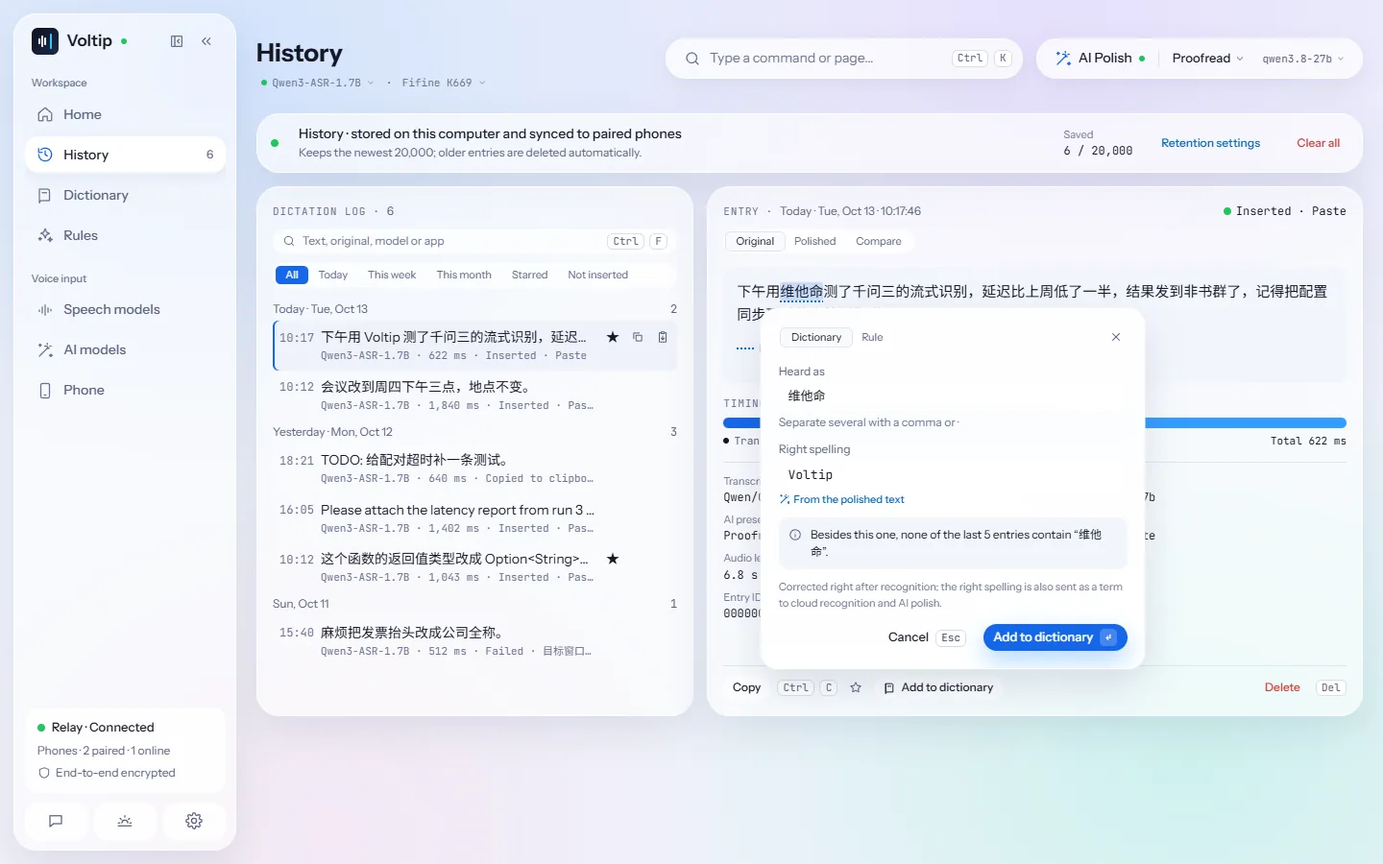
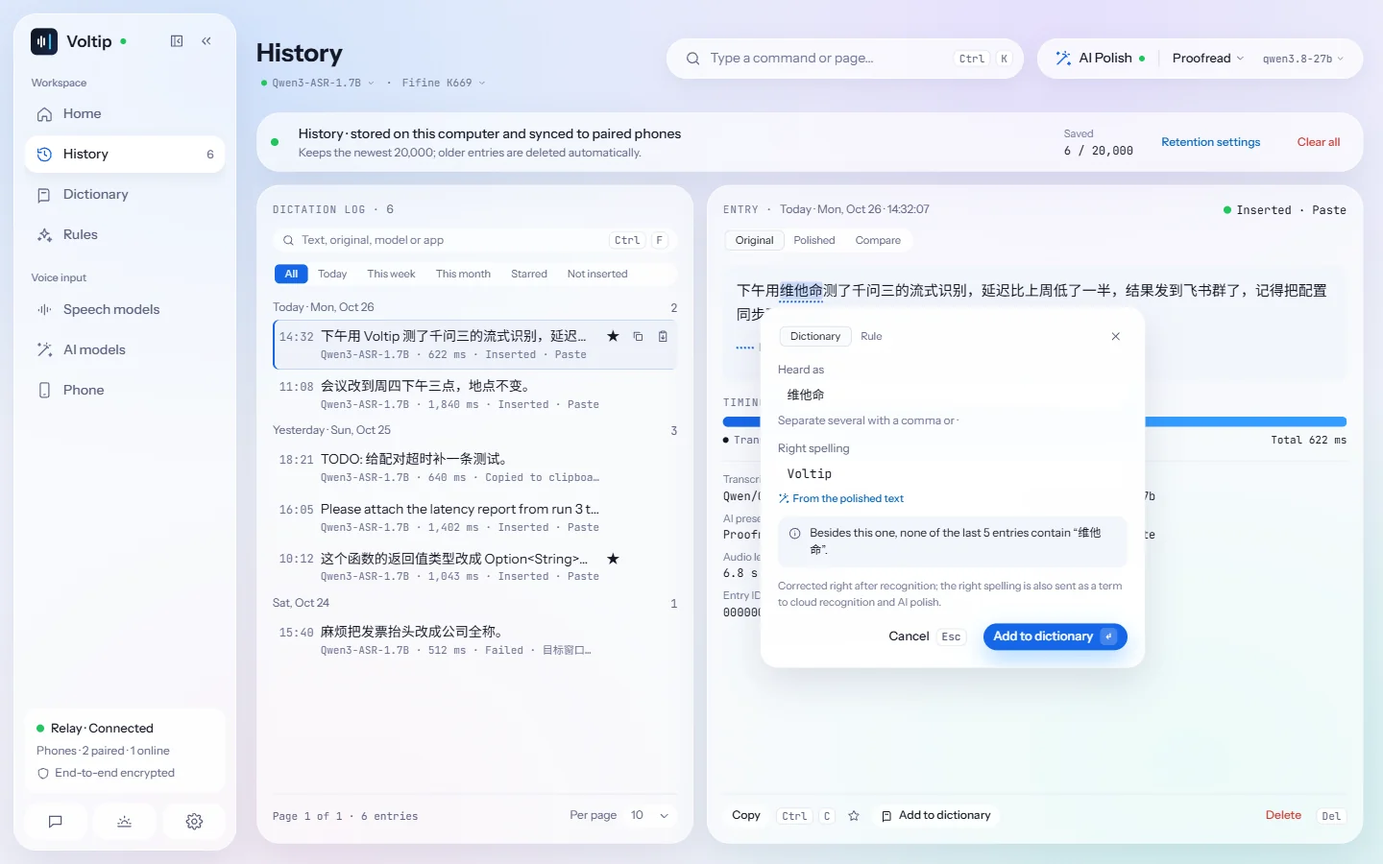
docs(voltip): sync from voltip@98e12c8
Source: https://github.com/sunerpy/voltip/commit/98e12c89e545e44171897ab1d7d09b297e55572b

diff --git a/voltip/src/zh/dev/frontend.md b/voltip/src/zh/dev/frontend.md
@@ -143,7 +143,7 @@ type UiEvent = { type: "state" } & UiState | { type: "identity" } & DeviceIdenti
 - **设置是模态对话框**：`/settings/:section` 仍是路由（深链、测试），但渲染为 `SettingsDialog`（`min(960px, 100vw-48px) × min(660px, 100vh-48px)`，左 200 px 分组导航 + 右侧流式内容），压在路由 `background`（上一个非设置页面，默认首页）之上；Esc / 遮罩 / 关闭按钮回到 background；标题栏读数保持 background 页面的。
 - **设置 › 听写**（2026-09-29）：插入方式（粘贴到光标处 / 仅复制到剪贴板，`settings_set_engines { inject }`）只在这里设置；首页听写卡的提示随之写「插入到当前光标处」或「复制到剪贴板」。
 - **切换菜单**（`apps/desktop/src/features/switchers/`，2026-09-30 用户要求，2026-10-01 确认方案 A：预设与模型是两个下拉）：标题栏与首页共用三个菜单，行与选中后的设置由纯函数 `switchers.ts` 生成（行 id 由 `choiceId` / `parseChoice` 往返）。`SpeechModelMenu`：「内置服务」组在前，然后是每个已设置、能运行的云端服务商（未设置密钥或缺少地址的服务商不列出，2026-10-01 用户决定），各列其模型；「本地模型」组列出已安装的识别模型（档位名 + 产品名，`modelFamilyName`）；末行「管理语音模型…」进 `/speech`。`PolishModelMenu`：按提供 LLM 的可用服务商分组列模型，末行「管理 AI 模型…」进 `/ai`。选中写 `settings_set_engines`（`engineSettingsFor`：内置服务只切换服务商；其他服务商经 `applyProviderDraft` 写入模型并保留已保存的地址；本地模型经 `activateLocalModel`）。`MicrophoneMenu`：挂载时和每次打开时重读 `audio_devices`（刚插上的 USB 麦克风也在），「系统默认（{名称}）」在前，再列各设备短名；所选设备未连接时仍列出，带「未连接」、选中且不可选；选中写 `settings_set_microphone`；标题栏的菜单另有「录音来源」组（麦克风 / 电脑声音 / 混合，电脑声音不可用的平台不出现），末行「录音来源设置…」打开 设置 › 录音来源。首页：识别与润色卡的模型名（`home-engine-model`）、润色模型（`home-refine-model`）与麦克风设备名（`home-mic-device`；只录电脑声音时是纯文字）是这三个菜单的按钮；页头的两个菜单在首页以外的页面。
-- **引擎页是服务商卡片**：「语音识别」「文本润色」「识别设置」三组。前两组把服务商排成卡片网格（`packages/ui` `ProviderCards`，2026-10-10 用户在 Penpot「Voltip 服务商设置」选定方案 1：网格 + 右侧抽屉；按目录顺序，列宽 `auto-fill` 最小 280 px）：每张卡片写服务商名、请求发往的主机（内置服务、本机、未填地址的自定义接口写一句说明，内置服务的主机从不显示，`providerTagline`）、状态徽标（在用的写「使用中」，有问题的写原因，其余写「就绪」，`providerBadges`）和所用模型（等宽字体，过长截断），右下角是「设为当前」（只切换，写 `settings_set_engines`），在用的那张写「当前使用」并带浅强调色底与浅色图标块（用户 2026-10-10：实心蓝图标块不好看）。点卡片从右侧打开抽屉（`Drawer`：遮罩、Esc / 关闭按钮 / 点遮罩关闭、Tab 不出抽屉、关闭后焦点回到卡片；宽 480 px，本机 720 px，都不超过窗口宽减 24 px）：标题行是图标块（厂商显示自己的标志，`PROVIDER_MARKS`；内置服务、本机、自定义接口用应用图标；卡片上同样）、服务商名、状态徽标和说明，下面按「语音识别 / AI 润色」「连接」两组每行一个字段——选模型（当前模型与预设 → 「其他模型…」（任意 id）→ 有服务商列表时「服务商提供（N）」一组，`modelOptions`，N 与测试连接的数量相同，新列表只追加在末尾；列表来自已保存的密钥，`provider_models_refresh` 在打开抽屉、打开下拉框和保存之后刷新，或来自这次在表单里的测试连接；`Select wrap` 让长模型 ID 在字段内换行，不再撑宽字段盖住旁边的接口地址，2026-10-10 用户报告）、接口地址、密钥（`password` 字段，永远空着打开，只经 `provider_key_set` 写入；已保存时只显示「已保存」；显示 / 隐藏按钮在字段内）、密钥状态与「获取密钥」「删除密钥」（阿里云百炼另有「查看额度」与一行额度说明）、「测试连接」（`provider_probe`，未测时写「尚未测试」）；底部是「恢复默认」「保存」和「设为当前」（先按「保存」的规则检查并写入草稿，再切换并关闭抽屉）；内置服务卡只写「内置服务的地址和密钥在构建时写进应用，这里不显示」。「本机」的抽屉里是真实的模型库（`LocalModels`，两列）：只列识别模型（`capabilities` 含 `offline`），按产品档位排序 均衡 → 高精度 → 轻量 → 轻量 · 中文（`offlineModelsByTier`，同档位保持核心顺序，`listitem` 带 `data-tier`），卡片标题在中文下用核心的 `name`、英文下按 id 查字典（`modelDisplayName`），描述同理（`modelDescription`），下载 / 取消 / 重试 / 删除 / 使用此模型全部是真实核心命令。第三节「实时预览」（`LivePreview`，docs/dictation.md §11）：开关写 `settings_set_engines { live_preview }`（整块下发），状态灯行读 `state.engines.live_preview_ready`（已就绪 / 模型未下载 / 已关闭，`data-state`），下方是流式模型 `zipformer-stream-zh-en` 的同款卡片——只有下载 / 取消 / 重试 / 删除，**没有**「使用此模型」（`modelAction` → `installed`：它不是识别模型，永不 `active`）。第四节「输出方式」（`OutputMode`，docs/dictation.md §12，2026-09-26）：三张 `OptionCard`（`role="listbox"`，`aria-label="输出方式"`）——整段输出 / 流式定稿 / 实时注入，选中写 `settings_set_engines { output_mode }`；状态灯行与「当前生效」徽标读 `state.engines.effective_output_mode`（`data-mode` = 所选，`data-effective` = 实际），流式模型未下载时两张流式卡带「模型未下载」徽标、所选流式卡下方出「流式模型未下载，当前按整段输出运行」（`output-mode-fallback`）；`output_mode = live_inject` 且润色开着时 LLM 润色卡内出「实时注入下不润色」（`refine-live-inject`）。第五节「静音裁剪」（`VadTrim`）：`Toggle` 写 `settings_set_engines { vad_trim }`，仅本机识别时可用，云端下禁用并注明「仅本地识别可用；云端识别不裁剪」（`data-state` = on / off / cloud）。「本机」抽屉最后是「运行设备」（`LocalCompute`，§10.6）：自动 / CPU / GPU（没有可用 GPU 时禁用 GPU）、多块 GPU 时选哪块、推理线程。服务商列表之后是「额度用完后改用其他模型」（`packages/ui` `FallbackSection`，docs/dictation.md §3.5，识别与润色各一份，手机同用）：开关与列表写 `settings_set_engines { asr_fallback | llm_fallback }`，每行的状态读 `state.engines.asr_fallback | llm_fallback`（`fallbackRows`：使用中 / 可用 / 额度已用完 · 何时再试 / 服务商问题 / 跳过），「重新检查」= `engines_quota_reset`；候补顶替时服务商区块标题为「当前：服务商 · 模型（候补）」，隐私说明在候补链运行时加上额度用完后会收到数据的服务商（两者是 `packages/ui` 的 `CurrentService` / `ServicePrivacy`，手机两页放在服务商卡片下方）；顶替实时模型的是整段识别模型时，「实时预览」为「暂不可用 · 候补模型不支持实时识别」（`data-state="paused"`），「输出方式」按整段输出生效，不显示「模型未下载」。
+- **引擎页是服务商卡片**：「语音识别」「文本润色」「识别设置」三组。前两组把服务商排成卡片网格（`packages/ui` `ProviderCards`，2026-10-10 用户在 Penpot「Voltip 服务商设置」选定方案 1：网格 + 右侧抽屉；按目录顺序，列宽 `auto-fill` 最小 280 px）：每张卡片写服务商名、请求发往的主机（内置服务、本机、未填地址的自定义接口写一句说明，内置服务的主机从不显示，`providerTagline`）、状态徽标（在用的写「使用中」，有问题的写原因，其余写「就绪」，`providerBadges`）和所用模型（等宽字体，过长截断），右下角是「设为当前」（只切换，写 `settings_set_engines`），在用的那张写「当前使用」并带浅强调色底与浅色图标块（用户 2026-10-10：实心蓝图标块不好看）。点卡片从右侧打开抽屉（`Drawer`：遮罩、Esc / 关闭按钮 / 点遮罩关闭、Tab 不出抽屉、关闭后焦点回到卡片；宽 480 px，本机 720 px，都不超过窗口宽减 24 px）：标题行是图标块（厂商显示自己的标志，`PROVIDER_MARKS`；内置服务、本机、自定义接口用应用图标；卡片上同样）、服务商名、状态徽标和说明，下面按「语音识别 / AI 润色」「连接」两组每行一个字段——选模型（当前模型与预设 → 「其他模型…」（任意 id）→ 有服务商列表时「服务商提供（N）」一组，`modelOptions`，N 与测试连接的数量相同，新列表只追加在末尾；列表来自已保存的密钥，`provider_models_refresh` 在打开抽屉、打开下拉框和保存之后刷新，或来自这次在表单里的测试连接；`Select wrap` 让长模型 ID 在字段内换行，不再撑宽字段盖住旁边的接口地址，2026-10-10 用户报告）、接口地址、密钥（`password` 字段，永远空着打开，只经 `provider_key_set` 写入；已保存时只显示「已保存」；显示 / 隐藏按钮在字段内）、密钥状态与「获取密钥」「删除密钥」（阿里云百炼另有「查看额度」与一行额度说明）、「测试连接」（`provider_probe`，未测时写「尚未测试」）；底部是「恢复默认」「保存」和「设为当前」（先按「保存」的规则检查并写入草稿，再切换并关闭抽屉）；内置服务卡只写「内置服务的地址和密钥在构建时写进应用，这里不显示」。「本机」的抽屉里是真实的模型库（`LocalModels`，两列）：最上面是「保存位置」（`ModelsLocation`，docs/dictation.md §10.9）——当前文件夹与默认 / 自定义徽标、「复制路径」、「更改位置…」（`models_location_choose`，壳的文件夹对话框）、自定义时「恢复默认」（先确认，`models_location_reset`）、移动时的进度与「取消移动」、上次移动的结果；移动期间卡片上的下载、重试、删除、检查并导入都禁用，有模型在下载时「更改位置…」禁用。卡片只列识别模型（`capabilities` 含 `offline`），按产品档位排序 均衡 → 高精度 → 轻量 → 轻量 · 中文（`offlineModelsByTier`，同档位保持核心顺序，`listitem` 带 `data-tier`），卡片标题在中文下用核心的 `name`、英文下按 id 查字典（`modelDisplayName`），描述同理（`modelDescription`），下载 / 取消 / 重试 / 删除 / 使用此模型全部是真实核心命令。第三节「实时预览」（`LivePreview`，docs/dictation.md §11）：开关写 `settings_set_engines { live_preview }`（整块下发），状态灯行读 `state.engines.live_preview_ready`（已就绪 / 模型未下载 / 已关闭，`data-state`），下方是流式模型 `zipformer-stream-zh-en` 的同款卡片——只有下载 / 取消 / 重试 / 删除，**没有**「使用此模型」（`modelAction` → `installed`：它不是识别模型，永不 `active`）。第四节「输出方式」（`OutputMode`，docs/dictation.md §12，2026-09-26）：三张 `OptionCard`（`role="listbox"`，`aria-label="输出方式"`）——整段输出 / 流式定稿 / 实时注入，选中写 `settings_set_engines { output_mode }`；状态灯行与「当前生效」徽标读 `state.engines.effective_output_mode`（`data-mode` = 所选，`data-effective` = 实际），流式模型未下载时两张流式卡带「模型未下载」徽标、所选流式卡下方出「流式模型未下载，当前按整段输出运行」（`output-mode-fallback`）；`output_mode = live_inject` 且润色开着时 LLM 润色卡内出「实时注入下不润色」（`refine-live-inject`）。第五节「静音裁剪」（`VadTrim`）：`Toggle` 写 `settings_set_engines { vad_trim }`，仅本机识别时可用，云端下禁用并注明「仅本地识别可用；云端识别不裁剪」（`data-state` = on / off / cloud）。「本机」抽屉最后是「运行设备」（`LocalCompute`，§10.6）：自动 / CPU / GPU（没有可用 GPU 时禁用 GPU）、多块 GPU 时选哪块、推理线程。服务商列表之后是「额度用完后改用其他模型」（`packages/ui` `FallbackSection`，docs/dictation.md §3.5，识别与润色各一份，手机同用）：开关与列表写 `settings_set_engines { asr_fallback | llm_fallback }`，每行的状态读 `state.engines.asr_fallback | llm_fallback`（`fallbackRows`：使用中 / 可用 / 额度已用完 · 何时再试 / 服务商问题 / 跳过），「重新检查」= `engines_quota_reset`；候补顶替时服务商区块标题为「当前：服务商 · 模型（候补）」，隐私说明在候补链运行时加上额度用完后会收到数据的服务商（两者是 `packages/ui` 的 `CurrentService` / `ServicePrivacy`，手机两页放在服务商卡片下方）；顶替实时模型的是整段识别模型时，「实时预览」为「暂不可用 · 候补模型不支持实时识别」（`data-state="paused"`），「输出方式」按整段输出生效，不显示「模型未下载」。
 - **自适应**：页面根 `mx-auto w-full max-w-[1440px]`（首页 1600），网格只用 `minmax(0,1fr)` / `auto-fill`，没有固定像素面板宽；每页一条 `regression: … is fluid` 测试禁止 `w-[NNNpx]` 面板。
 - 路由 `/`（首页）`/history` `/dictionary` `/rules` `/engines` `/devices`（配对面板 = 二维码 + 6 位码 + 倒计时 + 设备表）`/settings/:section`（对话框）`/onboarding`（权限 → 热键 → 引擎 → 试说，四步）；`Ctrl K` 命令菜单；悬浮胶囊作为独立路由 `/overlay?state=` 渲染单个胶囊（独立小窗，`state=blank` 什么都不画，**`state=live` 跟随 `state.dictation`**：idle 不画；listening 波形来自 `audio_meter_start` 的实时电平 + 已用时长——`ready: false`（设备尚未送出样本）时计时停在 `00:00` 并显示「等待麦克风」提示，`ready: true` 后从重取的 `started_at` 起计；有 `live` 时胶囊长高到两行（`h-14`，窗口 64 px 减 8 px 顶部内边距），波形上方一行两色实时字幕：`committed` 正常色 + `current` 弱化色（`text-pill-muted`），中日韩边界不加空格、拉丁边界加空格（`liveTextGap`），单行、只保留末尾 40 个字符（`clipLiveCaption`，前置省略号，`data-clipped`），旁边一枚「预览」小 chip；`live.degraded` 胶囊不额外显示任何东西（首页引擎卡出一行「实时预览已中断 · 最终文本不受影响」）；processing 有 `preview` 时用弱化色的预览文本（`pill-preview`，同样只留末尾 40 字）替代「转写中…」/「润色中…」直到最终结果；inserted 显示字数与 `via`，failed 显示原因并在有 `text` 时提供真实「复制文本」，cancelled 用 danger 胶囊），**§12 / §13（2026-09-26）**：`listening.locked` 时锁标（`pill-lock`，`aria-label`「已锁定 · 再按一次结束」）替代状态灯、字幕与计时照旧；`live.injected > 0` 时已粘贴的 committed 句以更淡样式（`pill-live-injected`，`title`「已打进前台应用」）排在字幕最前、裁剪时最先被裁；`processing.stage = finalizing` 时模式 tag 显示「补齐最后一句…」而 `preview` 继续显示；`cancelled.injected_chars > 0` 时文案为「已取消，之前打进去的 N 字保留」）；`/overlay` 不带参数是胶囊规格页（八态总览 + toast / 兜底卡 / 失败原因表；`locked` 样例胶囊的「结束收音」是真实 `dictation_stop`），只在开发构建里有，发行包里这个地址显示「找不到页面」。没有 `/bridge` 路由（Bridge & MCP 不在产品范围内）；首页对应位置是由核心真实数据驱动的「手机麦克风 · 设备」卡。
 - 客户端禁用浏览器右键菜单（`apps/desktop/src/app/context-menu.ts`，仅 Tauri 内生效，可编辑控件与 `data-allow-context-menu` 除外）。
@@ -181,8 +181,8 @@ type UiEvent = { type: "state" } & UiState | { type: "identity" } & DeviceIdenti
 
 | 路由 | 数据来源 | UI 如何表达 |
 |---|---|---|
-| `/` 首页 | **全部真实**（0.1.1 起按画板 01）：**听写卡**（`home-hero`）：就绪状态读 `state.engines` + 麦克风（`home-readiness`，下面 `home-phase` 是实时状态 `正在听… 00:03` / `转写中…` / `已插入 42 字 · 粘贴 · 已润色` / `失败 · …`），组合键大键帽读 `state.settings.hotkey`（`home-hotkey`），激活方式按钮（按住说话 / 按一下开始 · 再按结束 / 按住说话 · 短按锁定，点开 设置 › 快捷键）与提示（「松开后，文字插入到当前光标处 · 按 Esc 取消」等，随插入方式写「复制到剪贴板」）随 `state.settings.activation` 变化（docs/dictation.md §13），空态提示同理（`activationHint`）；右侧圆形「开始听写」= `dictation_start`，听写中变「停止」= `dictation_stop`，另有「取消」= `dictation_cancel`；按钮外圈随这次录音或测试的强度放大，下方一行写麦克风状态（空闲 · 未打开麦克风 / 录音中 / 测试中 · N 秒）。**识别与润色卡**（`home-engine`）：语音模型菜单与「本地」标签、`live_preview_ready` 时的「实时预览」chip（`home-live-preview`）、listening 且 `live.degraded` 时一行「实时预览已中断 · 最终文本不受影响」（`home-live-degraded`，`title` 为核心原因）；「配置」进语音模型页；AI 润色行是预设菜单（润色关闭时悬停写「AI 润色 关」）、润色模型菜单、隐私说明与开关（写 `settings_set_engines`）；麦克风行是设备菜单、采样率与「测试麦克风」；本地模式的模型名中文用核心 `name`、英文按 id 查字典。**四张统计卡**（今天 / 本周 / 本月 / 总计：节省时间、听写次数与字数，点开历史）来自 `history_stats`（`features/history/stats.ts`、`useHomeStats.ts`，docs/dictation.md §4.5），「依据」弹层在页头副标题旁。**最近的结果**读 `state.history_recent`，按天分组，每行是应用图标、文本、「时间 · 应用 · 时长 · 识别 … ms · 润色 … ms」与结果标签，悬停或聚焦时出现复制、粘贴到上一个窗口与删除（先确认），点行打开历史详情；至少 4 行，窗口更高时按列表可用的高度增加行数，直到页面底部不再留空，最多为 `history_recent` 的全部 30 条（`features/history/recent-rows.ts` `useRowsThatFit`，2026-10-01 用户要求）；行数只由窗口与记录算出，不从当前显示的行数往上加，新一天的日期标题也计入所需高度（2026-10-11：最大化窗口里曾在 16 与 17 行之间反复闪烁）。手机与中继的状态在侧栏状态卡 | 无 chip、无徽标；令牌缺失时「还不能开始听写」+ 按钮禁用并带原因；历史为空时是空态 + 热键提示 |
-| `/history` | **真实** `history_query` 分页读库（`history.sqlite3`，上限 2 万，docs/dictation.md §4.4） | 横幅写保留条数（`settings.history.keep`）；分页显示（2026-10-13 用户要求，`pages/history-list/`）：日志底部写「第 X / Y 页 · 共 N 条」（搜索时「找到 N 条」），每页 20 / 50 / 100 / 200 条（默认 50，这个窗口的 `localStorage` 记住，`voltip.historyPage`），多于一页时有 `Pagination`；换筛选、搜索或每页条数回到第 1 页，新听写不翻页，当前页删空后改为最后一页，从页底翻页时日志顶端回到视野里；选中的条目不在新的一页上时详情改为这一页的第一条；在筛选里搜索不到时空状态写明筛选，可清除搜索或在全部记录中查找；`lg` 以上详情栏在 `<main>` 里粘在顶部下方 1.5rem，最高为滚动区域高度减去上下内边距（`--scroll-area-h`），内容更多时在卡片内滚动，换一条记录时从顶端开始，日志随页面滚动（`history-list/layout.ts` 的 `DETAIL_STICKS`，加在两栏网格上）；筛选与搜索交给核心（搜索停止输入 200 ms 后发出）；筛选 全部 / 今天 / 本周 / 本月 / 已收藏 / 未插入；搜索文本 / 原文 / 模型 / 应用 / 场景；带上下文的条目在日志行显示应用名 + 场景徽标（`history-context`），详情显示「应用：名称 · id」与「场景」（没有匹配为「未匹配场景」，docs/dictation.md §18.6）；星标 = `history_star`，删除 = 确认 + `history_delete`（选中相邻项），全部清空 = 确认 + `history_clear`；复制走 `copyWithToast`；原文 / 润色后 / 对比 diff 来自 `raw_text` 与 `text`；`mode` 为流式定稿 / 实时注入的条目在日志行与详情页头带 `Badge`（`history-mode` / `history-detail-mode`），整段不显示；`live_error` 有值时详情里出「流式回退：…」（`history-live-error`）；空态提示随 `settings.activation`；详情列出本次触发的词典纠正与规则（`history-vocabulary`，名称取当前列表，已删除的写「已删除的词条 / 规则」）；「加入词典」打开对话框（曾听成用当前选区预填，正确写法手填）提交 `dictionary_add { historyId }`，核心拒绝时对话框保留并显示原因；没有「重新插入」「保留时长」等无后端控件 |
+| `/` 首页 | **全部真实**（0.1.1 起按画板 01）：**听写卡**（`home-hero`）：就绪状态读 `state.engines` + 麦克风（`home-readiness`，下面 `home-phase` 是实时状态 `正在听… 00:03` / `转写中…` / `已插入 42 字 · 粘贴 · 已润色` / `失败 · …`），组合键大键帽读 `state.settings.hotkey`（`home-hotkey`），激活方式按钮（按住说话 / 按一下开始 · 再按结束 / 按住说话 · 短按锁定，点开 设置 › 快捷键）与提示（「松开后，文字插入到当前光标处 · 按 Esc 取消」等，随插入方式写「复制到剪贴板」）随 `state.settings.activation` 变化（docs/dictation.md §13），空态提示同理（`activationHint`）；右侧圆形「开始听写」= `dictation_start`，听写中变「停止」= `dictation_stop`，另有「取消」= `dictation_cancel`；按钮外圈随这次录音或测试的强度放大，下方一行写麦克风状态（空闲 · 未打开麦克风 / 录音中 / 测试中 · N 秒）。**识别与润色卡**（`home-engine`）：语音模型菜单与「本地」标签、`live_preview_ready` 时的「实时预览」chip（`home-live-preview`）、listening 且 `live.degraded` 时一行「实时预览已中断 · 最终文本不受影响」（`home-live-degraded`，`title` 为核心原因）；「配置」进语音模型页；AI 润色行是预设菜单（润色关闭时悬停写「AI 润色 关」）、润色模型菜单、隐私说明与开关（写 `settings_set_engines`）；麦克风行是设备菜单、采样率与「测试麦克风」；本地模式的模型名中文用核心 `name`、英文按 id 查字典。**四张统计卡**（今天 / 本周 / 本月 / 总计：节省时间、听写次数与字数，点开历史）来自 `history_stats`（`features/history/stats.ts`、`useHomeStats.ts`，docs/dictation.md §4.5），「依据」弹层在页头副标题旁。**未识别的录音**（`features/history/Recordings.tsx` 的 `HomeRecordings`，有时才显示，docs/dictation.md §26.6）在最近的结果上方：最多 3 条、每条一行，「重新识别」用标题行「重新识别使用」的两个模型菜单（`RetakeModels.tsx`，只用于这次）、「删除录音」，「查看全部 N 条」与「清理」。**最近的结果**读 `state.history_recent`，按天分组，每行是应用图标、文本、「时间 · 应用 · 时长 · 识别 … ms · 润色 … ms」与结果标签，悬停或聚焦时出现复制、粘贴到上一个窗口与删除（先确认），点行打开历史详情；至少 4 行，窗口更高时按列表可用的高度增加行数，直到页面底部不再留空，最多为 `history_recent` 的全部 30 条（`features/history/recent-rows.ts` `useRowsThatFit`，2026-10-01 用户要求）；行数只由窗口与记录算出，不从当前显示的行数往上加，新一天的日期标题也计入所需高度（2026-10-11：最大化窗口里曾在 16 与 17 行之间反复闪烁）。手机与中继的状态在侧栏状态卡 | 无 chip、无徽标；令牌缺失时「还不能开始听写」+ 按钮禁用并带原因；历史为空时是空态 + 热键提示 |
+| `/history` | **真实** `history_query` 分页读库（`history.sqlite3`，上限 2 万，docs/dictation.md §4.4） | 横幅写保留条数（`settings.history.keep`）；分页显示（2026-10-13 用户要求，`pages/history-list/`）：日志底部写「第 X / Y 页 · 共 N 条」（搜索时「找到 N 条」），每页 10 / 20 / 50 / 100 / 200 条（默认 10，这个窗口的 `localStorage` 记住，`voltip.historyPage`），多于一页时有 `Pagination`；换筛选、搜索或每页条数回到第 1 页，新听写不翻页，当前页删空后改为最后一页，从页底翻页时日志顶端回到视野里；选中的条目不在新的一页上时详情改为这一页的第一条；在筛选里搜索不到时空状态写明筛选，可清除搜索或在全部记录中查找；`lg` 以上日志和详情并排占满窗口在上方内容以下的高度（滚动区域 − 网格位置 − 1.5rem，至少 480 px；`--scroll-area-h` / `--split-top`，`history-list/layout.ts` 的 `SPLIT_FILLS` 与 `useSplitHeight`，2026-10-26 用户要求），日志的行在日志里滚动、页码留在下面，换页时从顶端开始（`useRowsStartAtTop`），详情在卡片内滚动、换一条记录时从顶端开始；上方的「未识别的录音」最多约 3 行高；筛选与搜索交给核心（搜索停止输入 200 ms 后发出）；筛选 全部 / 今天 / 本周 / 本月 / 已收藏 / 未插入；搜索文本 / 原文 / 模型 / 应用 / 场景；带上下文的条目在日志行显示应用名 + 场景徽标（`history-context`），详情显示「应用：名称 · id」与「场景」（没有匹配为「未匹配场景」，docs/dictation.md §18.6）；星标 = `history_star`，删除 = 确认 + `history_delete`（选中相邻项），全部清空 = 确认 + `history_clear`；复制走 `copyWithToast`；原文 / 润色后 / 对比 diff 来自 `raw_text` 与 `text`；`mode` 为流式定稿 / 实时注入的条目在日志行与详情页头带 `Badge`（`history-mode` / `history-detail-mode`），整段不显示；`live_error` 有值时详情里出「流式回退：…」（`history-live-error`）；空态提示随 `settings.activation`；详情列出本次触发的词典纠正与规则（`history-vocabulary`，名称取当前列表，已删除的写「已删除的词条 / 规则」）；「加入词典」打开对话框（曾听成用当前选区预填，正确写法手填）提交 `dictionary_add { historyId }`，核心拒绝时对话框保留并显示原因；没有「重新插入」「保留时长」等无后端控件 |
 | `/dictionary` | **真实** `state.dictionary`（`dictionary.json`，上限 500，按匹配顺序） | 新建（表上方一行）/ 行内编辑（Enter 保存、Esc 取消）/ 启用开关 / 上移下移 / 删除（行内确认）= `dictionary_*`；输入时本地查空、超长、重复正确写法、写法过多，其余由核心判定（reject 原文留在编辑器，冲突为 `error` toast）；「命中」列与「历史记录里的命中」chip 汇总 `history[*].vocabulary.corrections`；「试一试」= `vocabulary_preview`（防抖，列表变化重问），「用最近一次听写」取 `history[0].raw_text`；说明卡写明词表去向（云端识别与 AI 润色；本地模型不接收）；`Ctrl N` 新建；没有 CSV、权重、复制为规则、示例页脚 |
 | `/rules` | **真实** `state.rules`（`rules.json`，上限 200，按执行顺序） | 一张表（序号 / 名称 / 类型 / 匹配 + `Aa` / 替换或「（删除）」/ 命中 / 启用）；编辑器本地查空名称、重名、空匹配，再用 `vocabulary_preview("", draft)` 让核心编译检查（失败原文进状态行、禁用保存），`Ctrl S` 保存、`Esc` 取消、`Ctrl N` 新建；上移下移 = `rules_reorder`，删除 = 确认 + `rules_remove`；「试运行」（`Ctrl ↵`）= `vocabulary_preview`，可带正在编辑的草稿（「名称（未保存）」）；「导入 TOML」文本对话框（合并 / 替换，核心整份校验，拒绝原文含行号）、「导出 TOML」对话框显示 `rules_export` 文本并可复制；没有规则集切换、预算、作用域、逐阶段视图、示例页脚 |
 | `/speech` 语音模型页（旧链接 `/engines`、`/settings/engine`、`/settings/speech` 都进这里）；`/ai` AI 模型页（旧链接 `/settings/refine`、`/settings/ai`） | **全部真实**（`state.engines` / `state.models` / `state.hardware` / `settings_set_engines` / `provider_key_set` / `provider_probe` / `model_download` / `model_cancel` / `model_remove`） | 服务商卡片（见 §4）；本地模型库按档位排序（均衡 → 高精度 → 轻量 → 轻量 · 中文）；「实时预览」块：开关写 `live_preview`，状态 已就绪 / 模型未下载 / 已关闭，流式模型卡无「使用此模型」；「输出方式」三卡写 `output_mode`，状态行 / 「当前生效」徽标读 `effective_output_mode`，模型缺失时说明回落；「静音裁剪」开关写 `vad_trim`，云端禁用并说明 |

diff --git a/voltip/src/dictation/history.md b/voltip/src/dictation/history.md
@@ -1,12 +1,12 @@
 ---
-description: The dictation history on your computer, what each entry shows, how much is kept, the statistics on the home page, and backing up and moving to another computer.
+description: The dictation history on your computer, what each entry shows, recognising or polishing again, how much is kept, the statistics on the home page, and backing up and moving to another computer.
 ---
 
 # History
 
 Every dictation, voice edit and text sent from a paired phone, and every copy a phone uploads of what it transcribed on its own, is listed on the **History** page. The history is stored on your computer; paired phones can read it, see [The computer's history and settings](/phone/#the-computer-s-history-and-settings).
 
-The latest results are also listed on the home page: four, or more when the window is taller, up to 30.
+The latest results are also listed on the home page: four, or more when the window is taller, up to 30. While there are recordings not recognised, the newest three are listed above the latest results, to recognise again or clear from there, see [Recognise or polish again](#recognise-or-polish-again).
 
 ## What an entry shows
 
@@ -21,11 +21,12 @@ From an entry you can:
 - copy it, or paste it into the window you used before (see [Where the text goes](/dictation/output#copy-or-paste-a-result-again));
 - star it, so that it is easy to find;
 - select a misheard word in the original text and add it to the [dictionary](/recognition/dictionary) or create a rule, see [Correct from the history](/recognition/dictionary#correct-from-the-history);
+- recognise it again while its recording is still kept, or polish it again when AI polish failed, see [Recognise or polish again](#recognise-or-polish-again);
 - delete it.
 
 The search box finds text, apps, scenes and models, and works together with the filters, which narrow the list to today, this week or this month, to starred entries, or to entries whose text was not inserted. After a search or a filter the list starts again at its first page, and the foot of the list shows how many entries were found.
 
-On the computer the list is shown in pages. Choose 20, 50, 100 or 200 entries per page at the foot of the list (50 at first; the page remembers your choice) and move between pages with the buttons beside it. A new dictation does not change the page you are on. While you scroll through a page, the details of the selected entry stay in view beside it; when they are longer than the window, they scroll on their own. On a phone the list shows 100 entries at a time; scroll to the end, or tap **Load more**, to see the next ones.
+On the computer the list is shown in pages. Choose 10, 20, 50, 100 or 200 entries per page at the foot of the list (10 at first; the page remembers your choice) and move between pages with the buttons beside it. A new dictation does not change the page you are on. The list and the details of the selected entry fill the window's height side by side, and each scrolls on its own when it holds more; another page starts at the top of the list. On a phone the list shows 100 entries at a time; scroll to the end, or tap **Load more**, to see the next ones.
 
 ## Long recordings
 
@@ -34,6 +35,17 @@ An entry recorded for longer than 2 minutes, or with more than 2,000 characters,
 - **Process with an AI preset**: choose a preset and select **Process**. The text is processed in parts of up to 1,500 characters, cut at sentence ends; the progress is shown and you can cancel. The result is saved as a processed text beside the original, which stays as it is, and appears under **Processed**. With Key points, the points of all parts are summarised once more when they fit one request; with Chinese ⇄ English, you get a translation. The built-in AI service runs on a free quota, so long texts take a while.
 - **Export subtitles (SRT)** and **Export text (TXT)**: choose where to save the file. Subtitles follow the segments of the recording, with at most 20 Chinese or 42 Latin characters per line. The text export uses the processed text when there is one.
 
+## Recognise or polish again
+
+When recognition or AI polish fails, there is no need to record again. By default Voltip keeps the recordings of your latest 20 dictations on this computer, including those recorded on a phone used as a microphone; the recordings of voice edits are not kept. A recording longer than 2 minutes, such as a meeting, is saved compressed while you record, and kept when you cancel it as well. If Voltip closes unexpectedly during a recording, the next start recovers what was recorded, missing at most the last few seconds.
+
+- **Recordings not recognised**: recordings whose recognition failed or that were cancelled, and those Voltip closed on while recording or processing them, are listed under **Recordings not recognised** on the **History** page, with when and for how long they were recorded, the app they were recorded in and the reason; the newest three are also listed above the latest results on the home page, with **View all** when there are more. Select **Recognise again** and Voltip recognises the recording again with the [scene](/recognition/scenes) of the app it was recorded in, a recording longer than 2 minutes in segments as well; the text is saved as a new entry and copied to the clipboard, and it is not inserted into the current window. Select **Delete recording** for a recording you no longer need; **Clear** deletes all the recordings not recognised, after asking.
+- **Other models**: **Recognise again with**, above the list, chooses the speech model (a model of a provider that is set up, or a local model you have downloaded) and the AI polish model the recordings are recognised again with, or **No polish**. The models you choose are used only for recognising again; the settings stay as they are, and with nothing chosen the current settings are used.
+- **Recognise again from an entry's details**: while an entry's recording is still kept, its details show **This dictation's recording is still kept on this computer** and **Recognise again**, with the same choice of models. For example, when the result was not what you said, choose another speech model and recognise it again.
+- **Polish again**: when the AI polish request fails, the dictation inserts the recognised text and the details say why. With an AI service set up, **Polish again** appears next to the reason: it polishes the text again with the preset of the entry's scene (the current preset when there is no scene) and saves the result as a processed text, under **Processed**; the original stays as it is.
+
+The overlay says so as well: when no text was recognised and the recording was kept, it shows **Recording kept to try again**; when the recording is kept after you cancel, it shows **Cancelled · recording kept**.
+
 ## How much is kept
 
 Under **Settings → Privacy and history**:
@@ -41,7 +53,14 @@ Under **Settings → Privacy and history**:
 - **Keep the latest** sets how many entries are kept: 500, 2,000, 5,000, 10,000 or 20,000. A new installation keeps 20,000, which is also the maximum. Older entries are removed.
 - Updating does not change this setting: if it was 500, it stays 500 until you choose a larger number.
 - History can be turned off. Nothing new is recorded; what is already there stays until you clear it.
-- **Clear history** deletes all entries, after a confirmation.
+- **Clear history** deletes all entries and the kept recordings, after a confirmation.
+
+**Recording cache**, on the same page, sets how many recordings are kept for [recognising again](#recognise-or-polish-again):
+
+- **Keep recordings on this computer** is on by default and needs **Keep dictation history** on as well. Turning it off deletes the kept recordings.
+- **Keep at most**: 5, 10, 20, 50, 100 or 200 recordings, 20 by default. **Use at most**: 50 MB to 10 GB, 200 MB by default. Past either limit, the oldest recordings are deleted. A recording of up to 2 minutes takes about 1.9 MB a minute; a longer one is compressed to about 10 MB an hour.
+- **Delete recordings** deletes every kept recording after a confirmation; the text in the history stays.
+- Deleting an entry deletes its recording too. Recordings are not synced to phones and not included in backups.
 
 ## Statistics
 

diff --git a/voltip/src/privacy.md b/voltip/src/privacy.md
@@ -48,7 +48,9 @@ The [try page](/guide/try) on this website sends what you record or upload to th
 
 The microphone is open only while you record, or for the 15 seconds of a microphone test. Computer audio is recorded only during a dictation with it chosen as the source. Voltip does not listen in the background.
 
-While a recording longer than 2 minutes runs, its audio is written to a file in Voltip's data folder so that it can be recognised in segments. The file is deleted when the recording ends, and at the next start if Voltip was closed during a recording.
+While a recording longer than 2 minutes runs, its audio is written to a file in Voltip's data folder so that it can be recognised in segments; the file is deleted when the recording ends. With **Keep recordings on this computer** on, a compressed copy is written as well and moves into the recording cache when the recording ends; if Voltip was closed during the recording, the next start completes the copy from what was recorded and moves it into the recording cache. With it off, the files a closed recording left are deleted at the next start.
+
+With **Keep recordings on this computer** on (the default), the recordings of dictations are kept in Voltip's data folder, those longer than 2 minutes compressed, so that they can be [recognised again](/dictation/history#recognise-or-polish-again) when recognition or polish fails. Voltip keeps as many as the settings allow (20 recordings and 200 MB by default) and deletes the oldest past that. They stay on this computer: they are not synced to phones, not included in backups, and [AI tools](/recognition/mcp) cannot read them. Turn them off or delete them under **Settings → Privacy and history**, in **Recording cache**; turning them off deletes the kept recordings, and deleting an entry or clearing the history deletes its recordings too.
 
 ## The local service
 
@@ -61,6 +63,7 @@ With [AI tools](/recognition/mcp) turned on, AI tools on this computer that hold
 ## What stays on your computer
 
 - **History**: every dictation, stored in Voltip's data folder. It can be limited, turned off or cleared under **Settings → Privacy and history**.
+- **Recordings**: with **Keep recordings on this computer** on, the recordings of your latest dictations, in the same folder; see [The microphone and computer audio](#the-microphone-and-computer-audio).
 - **Dictionary, rules, scenes and settings**: in the same folder.
 - **Backup files**: a backup exported under **Settings → Privacy and history** is saved where you choose. It holds the history, the dictionary, the rules, the scenes and your own AI presets, but no settings or keys, and it is not encrypted; see [Backup and moving to another computer](/dictation/history#backup-and-moving-to-another-computer).
 - **Keys and the device identity**: in the system keychain — Windows Credential Manager, the macOS keychain, or the Secret Service on Linux. Keys are never shown again after you save them, and each key is sent only to its provider. Voltip does not fall back to storing keys in a file.

diff --git a/voltip/src/recognition/local.md b/voltip/src/recognition/local.md
@@ -7,7 +7,7 @@ description: The speech models that run on your computer, how to download them, 
 With a local model, your recordings are recognised on your computer and no audio leaves it. Open **Speech models** in the sidebar, choose **This computer**, and download a model. Once it is downloaded, you can also switch to it from the speech model name on the home page or under the page title.
 
 <ScreenFigure src="/screens/local-en-light.webp" width="1440" height="900"
-  alt="The This computer settings on the Speech models page: four local models, one of them installed and in use, and the compute device settings below."
+  alt="The This computer settings on the Speech models page: where the models are saved at the top, four local models below it, one of them installed and in use, and the compute device settings further down."
   caption="Speech models › This computer, with Qwen3-ASR 0.6B installed." />
 
 ## The models
@@ -31,7 +31,19 @@ When **Silence trimming** is on, a 1.8 MB silence detection model is downloaded 
 - Every file is checked against a SHA-256 hash before it is used.
 - Before a download starts, Voltip checks that there is enough free disk space.
 
-The models are stored in the `models` folder of Voltip's data folder ([where that is](/guide/updates#where-your-data-is-kept)). Deleting a model on the Speech models page removes its files.
+By default the models are stored in the `models` folder of Voltip's data folder ([where that is](/guide/updates#where-your-data-is-kept)); they can live in another folder too, see [Where the models are saved](#where-the-models-are-saved). Deleting a model on the Speech models page removes its files.
+
+### Where the models are saved
+
+When the system drive runs short of space, keep the models on another drive: under **This computer**, in **Location**, choose **Change…** and pick a folder. The downloaded models move along.
+
+- Within one drive the move is instant. To another drive, Voltip first copies and checks every file, then switches to the new folder, and only then deletes the files in the old one. The page shows the progress, and **Cancel move** stops the copy.
+- A move that does not finish (cancelled, not enough space, or another error) leaves the models where they were, ready to use.
+- While the models move, they cannot be downloaded or deleted; while a model downloads, the location cannot change until the download finishes or you cancel it.
+- An old file that is still in use and cannot be deleted yet is deleted the next time Voltip starts.
+- When the chosen folder already holds a complete copy of a model, for example after reinstalling the system and choosing the old folder again, Voltip uses it as it is instead of copying.
+
+**Restore default** moves the models back to the data folder. Models downloaded later are saved in the current location.
 
 ### Downloading by hand
 

diff --git a/voltip/src/guide/updates.md b/voltip/src/guide/updates.md
@@ -40,7 +40,7 @@ Voltip 0.0.52 and earlier ask GitHub only.
 
 ## Where your data is kept
 
-Settings, the history, the dictionary, the rules, the scenes and the downloaded models are stored in one folder per user:
+Settings, the history, the dictionary, the rules, the scenes, the kept recordings and the downloaded models are stored in one folder per user:
 
 | Platform | Folder |
 | --- | --- |
@@ -48,7 +48,7 @@ Settings, the history, the dictionary, the rules, the scenes and the downloaded 
 | macOS | `~/Library/Application Support/dev.voltip.Voltip` |
 | Linux | `~/.local/share/voltip` |
 
-The models are in the `models` folder inside it and account for almost all of its size. Deleting a model from the Speech models page removes its files.
+By default the models are in the `models` folder inside it and usually account for most of its size; they can move to another drive, see [Where the models are saved](/recognition/local#where-the-models-are-saved). Deleting a model from the Speech models page removes its files. The kept recordings are in the `audio-cache` folder, 200 MB at most by default; delete them under **Settings → Privacy and history**, in **Recording cache**, see [Recognise or polish again](/dictation/history#recognise-or-polish-again).
 
 Keys for cloud providers and this computer's device identity are kept in the system keychain — Windows Credential Manager, the macOS keychain, or the Secret Service on Linux — under entries whose names begin with `dev.voltip.desktop`.
 
@@ -60,4 +60,4 @@ Keys for cloud providers and this computer's device identity are kept in the sys
    - **macOS**: move Voltip from Applications to the Trash.
    - **Linux, .deb**: `sudo apt remove voltip`.
    - **Linux, AppImage**: delete `~/.local/bin/Voltip.AppImage` and `~/.local/share/applications/voltip.desktop`.
-3. To remove your data as well, delete the folder listed above, and the keychain entries whose names begin with `dev.voltip.desktop`.
+3. To remove your data as well, delete the folder listed above, and the keychain entries whose names begin with `dev.voltip.desktop`. When the models are saved elsewhere, delete that folder too.

diff --git a/voltip/src/zh/guide/updates.md b/voltip/src/zh/guide/updates.md
@@ -40,7 +40,7 @@ Voltip 先在本站检查更新并从本站下载。本站提供的文件与 Git
 
 ## 数据保存位置
 
-设置、历史记录、词典、规则、场景和已下载的模型，都保存在每个用户各自的一个目录中：
+设置、历史记录、词典、规则、场景、保留的录音和已下载的模型，都保存在每个用户各自的一个目录中：
 
 | 平台 | 目录 |
 | --- | --- |
@@ -48,7 +48,7 @@ Voltip 先在本站检查更新并从本站下载。本站提供的文件与 Git
 | macOS | `~/Library/Application Support/dev.voltip.Voltip` |
 | Linux | `~/.local/share/voltip` |
 
-模型位于其中的 `models` 目录，占用了几乎全部空间。在「语音模型」页删除模型会同时删除它的文件。
+模型默认位于其中的 `models` 目录，通常占用大部分空间，也可以移到其他磁盘，见[保存位置](/zh/recognition/local#保存位置)。在「语音模型」页删除模型会同时删除它的文件。保留的录音位于 `audio-cache` 目录，默认最多占用 200 MB，可以在「设置 → 隐私与历史」的「录音缓存」中清理，见[重新识别与重新润色](/zh/dictation/history#重新识别与重新润色)。
 
 云端服务商的密钥和这台电脑的设备身份保存在系统钥匙串中（Windows 凭据管理器、macOS 钥匙串或 Linux 的 Secret Service），条目名称以 `dev.voltip.desktop` 开头。
 
@@ -60,4 +60,4 @@ Voltip 先在本站检查更新并从本站下载。本站提供的文件与 Git
    - **macOS**：把「应用程序」中的 Voltip 移到废纸篓。
    - **Linux，.deb**：执行 `sudo apt remove voltip`。
    - **Linux，AppImage**：删除 `~/.local/bin/Voltip.AppImage` 和 `~/.local/share/applications/voltip.desktop`。
-3. 如果也要删除数据，删除上面列出的目录，以及钥匙串中名称以 `dev.voltip.desktop` 开头的条目。
+3. 如果也要删除数据，删除上面列出的目录，以及钥匙串中名称以 `dev.voltip.desktop` 开头的条目。模型保存在其他位置时，也删除那个文件夹。

diff --git a/voltip/src/recognition/polish.md b/voltip/src/recognition/polish.md
@@ -12,7 +12,7 @@ Turn it on or off with the **AI Polish** switch at the top right of the window. 
 
 AI polish uses the service and model chosen on the **AI models** page, or from the model menu next to the **AI Polish** switch: the built-in service, OpenAI, Groq, Google AI Studio, SiliconFlow, Alibaba Cloud Model Studio, DeepSeek, Kimi, Zhipu GLM, Volcengine Ark, Tencent Hunyuan, Xiaomi MiMo, OpenRouter, a local Ollama, or any OpenAI-compatible endpoint. The same menu is on the home page; it lists the models of the built-in service and of each provider that is set up. See [Cloud services](/recognition/cloud) for setting one up.
 
-If the service does not answer, is busy, or its answer is cut off at the length limit, the recognised text is inserted without polish, and the dictation is not lost; once it is in, the overlay says it was not polished and why, for example **service busy**. The history's details say why too, including what the service answered. For the notice the built-in service shows when it is busy, see [The built-in service](/recognition/cloud#the-built-in-service). When the selected model's quota is used up, AI polish can move on to other models in order: see **When a model's quota runs out** in [Cloud services](/recognition/cloud).
+If the service does not answer, is busy, or its answer is cut off at the length limit, the recognised text is inserted without polish, and the dictation is not lost; once it is in, the overlay says it was not polished and why, for example **service busy**. The history's details say why too, including what the service answered, and let you [polish it again](/dictation/history#recognise-or-polish-again). For the notice the built-in service shows when it is busy, see [The built-in service](/recognition/cloud#the-built-in-service). When the selected model's quota is used up, AI polish can move on to other models in order: see **When a model's quota runs out** in [Cloud services](/recognition/cloud).
 
 ## Presets
 
